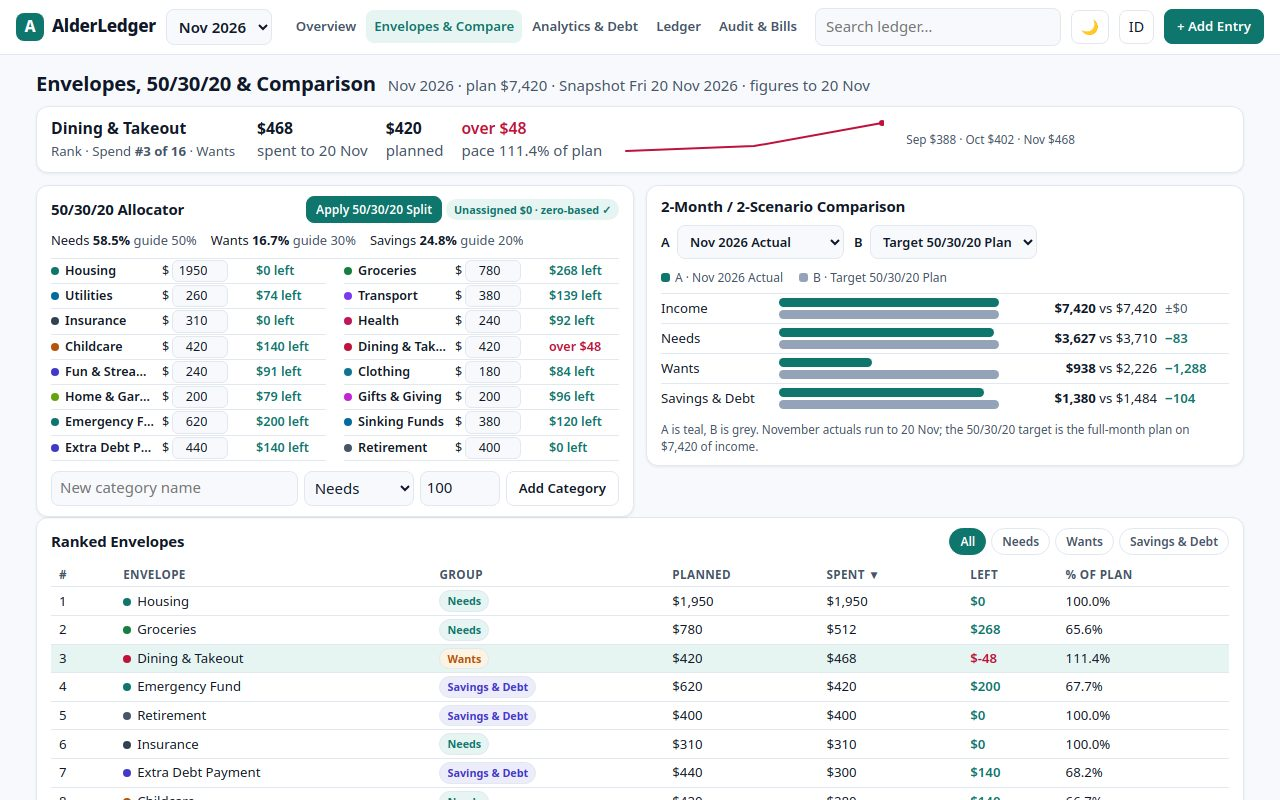
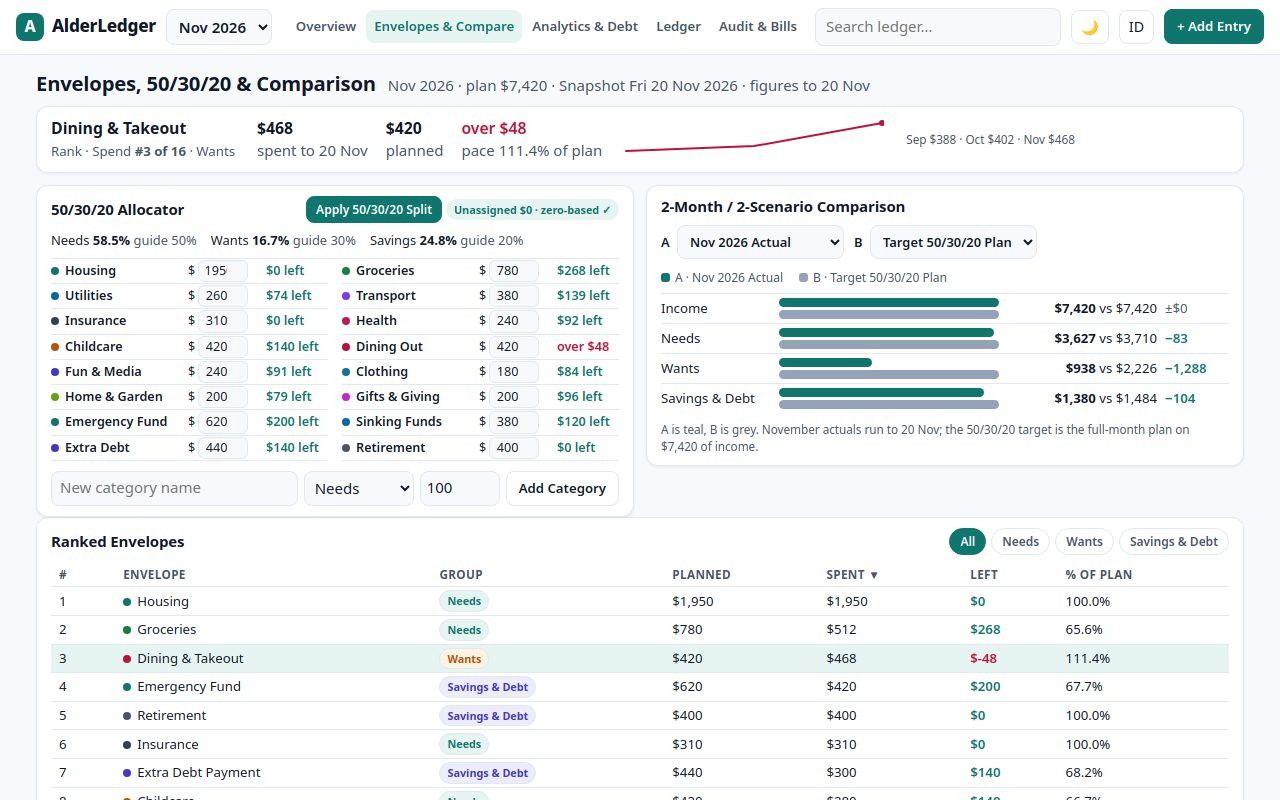
AlderLedger V3: H2H polish — no placeholder strip, full allocator labels, mobile debt tab
- Remove the 'new in V2' strip from the variance tab (no 'new in V2' /
  'coming' / 'Sample' text anywhere in the app)
- Allocator: short full labels (Dining Out, Fun & Media, Extra Debt) and
  a wider name column — 0 truncated envelope names at 1280x800
- Debt tab: Snowball / Avalanche / Minimums method toggle, 2x2 KPI strip
  (debt-free date, interest saved, freed cash/yr, runway), payoff curve
  with a callout pill, loan schedule + sinking vaults card
- Analytics sub-tabs are hash-routable (#/analytics/debt); shot 4 is now
  the mobile debt tab at 390x844
- Audit still 12/12, 0 console/page/network errors, mobile scrollWidth 390

Changed region(s): [[0.0625, 0.3125, 0.25, 0.5625], [0.375, 0.3125, 0.4688, 0.5625], [0.2812, 0.3125, 0.3438, 0.5625]]

diff --git a/app/views/analytics.js b/app/views/analytics.js
@@ -34,42 +34,80 @@ export function renderAnalytics(state, s) {
       <p class="fineprint">Hover a slice for planned vs actual. Housing is the largest envelope at ${fmt(s.spent.housing)}; Dining is the only one over plan, by ${fmt(Math.max(0, s.spent.dining - s.planned.dining))}.</p></div>
       <div class="card"><div class="card-head"><h2>12-month cash-flow trend</h2></div>${trendChart()}
       <p class="fineprint">November is partial (to 20 Nov). April’s income spike is the $1,900 tax refund; August’s spending spike is back-to-school; October carries the $310 annual insurance premium.</p></div>
-    </section>
-    <p class="fineprint feature-line">3 Sinking Vaults · Split Receipts · Snowball / Avalanche payoff curve — new in V2</p>`;
+    </section>`;
   } else if (tab === 'debt') {
+    const method = state.debtMethod || 'snowball';
     const slider = state.debtExtra ?? 30000;
     const trimsOn = TRIMS.filter((x) => state.debtTrims && state.debtTrims[x.id]);
     const trimSum = trimsOn.reduce((a, x) => a + x.amount, 0);
     const shock = state.debtShock ?? 0;
     const incomeLoss = Math.round(742000 * shock);
-    // An income shock eats the extra payment first: the household keeps
-    // the lights on before it pays extra on the cards.
-    const extra = Math.max(0, slider + trimSum - incomeLoss);
+    // Minimums means exactly that: the slider and trims are off and the
+    // extra is $0, so the KPIs, curve and schedule all fall back to the
+    // 105-month minimums path.
+    const minMethod = method === 'minimums';
+    const extra = minMethod ? 0 : Math.max(0, slider + trimSum - incomeLoss);
     const sim = simulateDebt(extra);
     const minSim = simulateDebt(0);
+    const cur = method === 'avalanche' ? sim.avalanche : sim.snowball;
     const save = sim.snowball.interest - sim.avalanche.interest;
+    const methodLabel = method === 'avalanche' ? 'Avalanche' : minMethod ? 'Minimums only' : 'Snowball';
+    const freeDate = new Date(2026, 10 + cur.months, 1).toLocaleDateString('en-US', { month: 'short', year: 'numeric' });
+    const savedVsMin = minSim.snowball.interest - cur.interest;
+    const freedYr = (32000 + extra) * 12;
+    const runway = (GOALS.find((g) => g.id === 'emergency').balance / s.needs.planned).toFixed(1);
+    const callout = minMethod
+      ? `Minimums only · debt-free in ${cur.months} mo · ${fmt(cur.interest)} interest`
+      : `${methodLabel} · debt-free in ${cur.months} mo · saves ${fmt(savedVsMin)} vs minimums`;
     const needs = 434000;
     const shockIncome = 742000 - incomeLoss;
     const shortfall = Math.max(0, needs - shockIncome);
     const shockNote = shock === 0 ? '' : incomeLoss >= slider + trimSum
       ? `Income −${(shock * 100).toFixed(0)}% is ${fmt(incomeLoss)}/mo less — it absorbs the whole ${fmt(slider + trimSum)} extra, so the payoff falls back to minimums (${minSim.snowball.months} months).${shortfall > 0 ? ` It also cuts ${fmt(shortfall)}/mo into essentials; the emergency fund covers that gap for about ${(1822800 / shortfall).toFixed(0)} months.` : ' Essentials are still covered; wants and savings flex first.'}`
       : `Income −${(shock * 100).toFixed(0)}% is ${fmt(incomeLoss)}/mo less, leaving ${fmt(extra)}/mo of extra payment.`;
-    body = `<section class="grid-2">
+    const order = method === 'avalanche' ? sim.avalancheOrder : sim.snowballOrder;
+    const payoff = method === 'avalanche' ? sim.avalanche.payoff : sim.snowball.payoff;
+    const schedRows = order.map((name) => {
+      const d = DEBTS.find((x) => x.name === name);
+      const m = payoff[d.id];
+      const when = new Date(2026, 10 + m, 1).toLocaleDateString('en-US', { month: 'short', year: 'numeric' });
+      return `<div class="debt-row"><span><b>${esc(name)}</b><br><span class="muted">${(d.apr * 100).toFixed(2)}% APR · min ${fmt(d.min)}/mo · ${fmt(d.balance)}</span></span><span class="num"><b>paid off mo ${m}</b><br><span class="muted">${when}</span></span></div>`;
+    }).join('');
+    const vaultRows = VAULTS.map((v) => {
+      const monthsLeft = Math.max(1, (Number(v.due.slice(0, 4)) - 2026) * 12 + Number(v.due.slice(5, 7)) - 11);
+      const need = Math.ceil((v.target - v.current) / monthsLeft);
+      const behind = need - v.monthly;
+      const dueLabel = new Date(v.due + 'T00:00:00').toLocaleDateString('en-US', { month: 'short', year: 'numeric' });
+      return `<div class="debt-row"><span><b>${esc(v.name)}</b><br><span class="muted">due ${esc(dueLabel)} · ${fmt(v.current)} of ${fmt(v.target)} · needs ${fmt(need)}/mo</span></span><span class="num"><b class="${behind > 0 ? 'bad' : 'good'}">${behind > 0 ? `Behind ${fmt(behind)}/mo` : 'On track ✓'}</b><br><span class="muted">funding ${fmt(v.monthly)}/mo</span></span></div>`;
+    }).join('');
+    body = `<div class="debt-kpis">
+      <div class="debt-kpi"><span class="muted">Debt-free date</span><b class="kpi-num">${esc(freeDate)}</b><span class="muted">${esc(methodLabel)} · ${cur.months} mo</span></div>
+      <div class="debt-kpi"><span class="muted">Interest saved</span><b class="kpi-num good">${fmt(savedVsMin)}</b><span class="muted">vs minimums ${fmt(minSim.snowball.interest)}</span></div>
+      <div class="debt-kpi"><span class="muted">Freed cash / yr</span><b class="kpi-num">${fmt(freedYr)}</b><span class="muted">after debt-free</span></div>
+      <div class="debt-kpi"><span class="muted">Emergency runway</span><b class="kpi-num">${runway} mos</b><span class="muted">${fmt(GOALS.find((g) => g.id === 'emergency').balance)} fund</span></div>
+    </div>
+    <section class="grid-2">
       <div class="card"><div class="card-head"><h2>Extra monthly debt payment: <b>${fmt(extra)}</b></h2></div>
-        <label class="slider-row"> $0 <input type="range" min="0" max="80000" step="2500" value="${slider}" data-action="debt-extra" aria-label="Extra monthly debt payment in cents"> $800 <span class="muted">(${(slider / 100).toFixed(0)}/mo on top of ${fmt(32000)} minimums)</span></label>
-        <div class="trim-row">${TRIMS.map((x) => `<label class="trim"><input type="checkbox" data-action="debt-trim" data-trim="${x.id}"${state.debtTrims && state.debtTrims[x.id] ? ' checked' : ''}> ${esc(x.label)}</label>`).join('')}</div>
+        <div class="method-row"><span class="muted">Method:</span>${[['snowball', 'Snowball'], ['avalanche', 'Avalanche'], ['minimums', 'Minimums']].map(([k, label]) => `<button class="pill-btn${method === k ? ' on' : ''}" data-action="debt-method" data-method="${k}">${label}</button>`).join('')}</div>
+        <label class="slider-row"> $0 <input type="range" min="0" max="80000" step="2500" value="${slider}" data-action="debt-extra" aria-label="Extra monthly debt payment in cents"${minMethod ? ' disabled' : ''}> $800 <span class="muted">(${(slider / 100).toFixed(0)}/mo on top of ${fmt(32000)} minimums)</span></label>
+        <div class="trim-row">${TRIMS.map((x) => `<label class="trim"><input type="checkbox" data-action="debt-trim" data-trim="${x.id}"${state.debtTrims && state.debtTrims[x.id] ? ' checked' : ''}${minMethod ? ' disabled' : ''}> ${esc(x.label)}</label>`).join('')}</div>
         <div class="shock-row"><span class="muted">Income shock:</span>${SHOCKS.map((x) => `<button class="pill-btn${shock === x.v ? ' on' : ''}" data-action="debt-shock" data-shock="${x.v}">${esc(x.label)}</button>`).join('')}</div>
-        <p class="fineprint">Trims add ${fmt(trimSum)}/mo to the extra payment${incomeLoss ? ` · shock takes ${fmt(incomeLoss)}/mo off it` : ''} · effective extra ${fmt(extra)}/mo.</p>
+        <p class="fineprint">${minMethod ? 'Minimums: the slider and trims are off — only the $320/mo minimums are paid.' : `Trims add ${fmt(trimSum)}/mo to the extra payment${incomeLoss ? ` · shock takes ${fmt(incomeLoss)}/mo off it` : ''} · effective extra ${fmt(extra)}/mo.`}</p>
+        ${debtCurve(cur, minSim.snowball, callout)}
         <div class="debt-cards">
           <div class="debt-card"><h3>Snowball <span class="muted">— smallest balance first</span></h3><p class="debt-big">${sim.snowball.months} months</p><p>Interest ${fmt(sim.snowball.interest)} · order: ${sim.snowballOrder.join(' → ')}</p></div>
           <div class="debt-card"><h3>Avalanche <span class="muted">— highest APR first</span></h3><p class="debt-big">${sim.avalanche.months} months</p><p>Interest ${fmt(sim.avalanche.interest)} · order: ${sim.avalancheOrder.join(' → ')}</p></div>
         </div>
         <p class="fineprint">${extra > 0 ? `Avalanche saves ${fmt(save)} of interest and finishes ${sim.snowball.months - sim.avalanche.months} month${sim.snowball.months - sim.avalanche.months === 1 ? '' : 's'} sooner than snowball at ${fmt(extra)}/mo extra. With no extra payment, either method takes 105 months and ${fmt(774030)} of interest — the extra payment is the whole game.` : 'Move the slider or add a trim: with no extra payment, either method takes 105 months and $7,740 of interest.'}${shockNote ? `<br>${esc(shockNote)}` : ''}</p>
-        ${debtCurve(sim.snowball, minSim.snowball)}</div>
+      </div>
       <div class="card"><div class="card-head"><h2>Your debts · ${fmt(DEBTS.reduce((a, d) => a + d.balance, 0))} total</h2></div>
         ${DEBTS.map((d) => `<div class="debt-row"><span><b>${esc(d.name)}</b><br><span class="muted">${(d.apr * 100).toFixed(2)}% APR · min ${fmt(d.min)}/mo</span></span><b>${fmt(d.balance)}</b></div>`).join('')}
         <p class="fineprint">Minimums alone are ${fmt(32000)}/mo. The $300/mo extra in the November plan is the Debt Extra envelope (${fmt(s.spent.debtextra)} moved to 20 Nov).</p></div>
-    </section>`;
+    </section>
+    <section class="card"><div class="card-head"><h2>Loan schedule &amp; sinking vaults</h2><span class="pill">${esc(methodLabel)} · debt-free ${esc(freeDate)}</span></div>
+      <div class="sched-cols"><div><h3>Payoff order — ${esc(methodLabel.toLowerCase())}</h3>${schedRows}</div>
+      <div><h3>Sinking vaults — irregular bills, pre-funded</h3>${vaultRows}</div></div>
+      <p class="fineprint">The schedule follows the ${esc(methodLabel.toLowerCase())} order at ${fmt(extra)}/mo extra. Vaults are pre-funded from the $260/mo Sinking Funds transfer — a vault behind its monthly need shows in red.</p></section>`;
   } else {
     const vaults = VAULTS.map((v) => {
       const monthsLeft = Math.max(1, (Number(v.due.slice(0, 4)) - 2026) * 12 + Number(v.due.slice(5, 7)) - 11);

diff --git a/app/style.css b/app/style.css
@@ -137,13 +137,13 @@ main { max-width: 1240px; margin: 0 auto; padding: 12px 16px 20px; }
 
 /* ---- Allocator ---- */
 .alloc-5030 { display: flex; gap: 14px; flex-wrap: wrap; font-size: 0.86rem; margin-bottom: 8px; }
-.alloc-list { border-top: 1px solid var(--border); display: grid; grid-template-columns: 1fr 1fr; gap: 0 18px; }
-.alloc-row { display: grid; grid-template-columns: 1fr 88px 70px; gap: 6px; align-items: center; padding: 1px 0; border-bottom: 1px solid var(--border); font-size: 0.84rem; }
+.alloc-list { border-top: 1px solid var(--border); display: grid; grid-template-columns: 1fr 1fr; gap: 0 14px; }
+.alloc-row { display: grid; grid-template-columns: 1fr 72px 62px; gap: 6px; align-items: center; padding: 1px 0; border-bottom: 1px solid var(--border); font-size: 0.84rem; }
 .alloc-row label { white-space: nowrap; }
 .alloc-row .pill, .alloc-row .alloc-spent { display: none; }
 .alloc-name { font-weight: 600; white-space: nowrap; overflow: hidden; text-overflow: ellipsis; }
 .alloc-name::before { content: ""; display: inline-block; width: 8px; height: 8px; border-radius: 50%; background: var(--dot, var(--teal)); margin-right: 6px; }
-.alloc-row input[type="number"] { width: 56px; border: 1px solid var(--border); background: var(--bg); border-radius: 6px; padding: 1px 5px; text-align: right; }
+.alloc-row input[type="number"] { width: 50px; border: 1px solid var(--border); background: var(--bg); border-radius: 6px; padding: 1px 5px; text-align: right; }
 .alloc-spent { color: var(--muted); font-size: 0.82rem; text-align: right; white-space: nowrap; }
 .add-cat { display: grid; grid-template-columns: 1fr 110px 80px auto; gap: 6px; margin-top: 10px; }
 .add-cat input[type="text"], .add-cat input[name="name"] { min-width: 0; border: 1px solid var(--border); background: var(--bg); border-radius: 8px; padding: 5px 8px; }
@@ -247,7 +247,6 @@ button.cal-bill { border: 0; cursor: pointer; font: inherit; text-align: left; w
 .trim input { accent-color: var(--teal); }
 .shock-row { display: flex; gap: 6px; align-items: center; flex-wrap: wrap; margin: 0 0 10px; font-size: 0.86rem; }
 .vaults { grid-template-columns: repeat(3, 1fr); }
-.feature-line { text-align: center; }
 .modal-card.split-on .single-env { display: none; }
 .modal-card label.split-toggle { display: flex; gap: 8px; align-items: center; }
 .split-toggle input { width: auto; margin: 0; accent-color: var(--teal); }
@@ -258,6 +257,17 @@ button.cal-bill { border: 0; cursor: pointer; font: inherit; text-align: left; w
 .split-balance { font-size: 0.86rem; font-weight: 700; margin: 8px 0 0; }
 .split-balance.good { color: var(--teal); }
 .split-balance.bad { color: var(--crimson); }
+
+/* ---- V3: debt KPIs, method toggle, curve callout, schedule ---- */
+.debt-kpis { display: grid; grid-template-columns: repeat(4, 1fr); gap: 10px; margin-bottom: 12px; }
+.debt-kpi { background: var(--card); border: 1px solid var(--border); border-radius: 10px; box-shadow: var(--shadow); padding: 9px 12px; display: flex; flex-direction: column; gap: 1px; }
+.debt-kpi .muted { font-size: 0.78rem; }
+.kpi-num { font-size: 1.3rem; font-weight: 800; letter-spacing: -0.02em; line-height: 1.2; }
+.method-row { display: flex; gap: 6px; align-items: center; flex-wrap: wrap; margin: 2px 0 10px; font-size: 0.86rem; }
+.curve-callout { text-align: center; margin: 6px 0 0; }
+.pill-teal { background: var(--teal-soft); color: var(--teal); border-color: transparent; }
+.sched-cols { display: grid; grid-template-columns: 1fr 1fr; gap: 0 24px; }
+.sched-cols h3 { margin: 4px 0 2px; }
 
 /* ---- Responsive ---- */
 @media (max-width: 1280px) {
@@ -291,6 +301,10 @@ button.cal-bill { border: 0; cursor: pointer; font: inherit; text-align: left; w
   .cmp-row { grid-template-columns: 84px 1fr 110px 52px; }
   .methods { grid-template-columns: 1fr; }
   .debt-cards { grid-template-columns: 1fr; }
+  .debt-kpis { grid-template-columns: 1fr 1fr; gap: 8px; }
+  .sched-cols { grid-template-columns: 1fr; }
+  .route-analytics .page-head .muted { display: none; }
+  .route-analytics .page-head h1 { font-size: 1.2rem; }
   .latest-strip { grid-template-columns: 1fr 1fr; }
   .cal td { height: 44px; }
   .action-strip { flex-direction: column; align-items: flex-start; gap: 8px; }

diff --git a/app/main.js b/app/main.js
@@ -30,7 +30,7 @@ const state = {
   month: '2026-11', lang: localStorage.getItem('alderledger-lang') || 'en',
   theme: localStorage.getItem('alderledger-theme') || 'light',
   groupFilter: 'All', selectedEnv: 'dining', chartMode: 'cushion',
-  compareA: '2026-11', compareB: 'target', analyticsTab: 'variance',
+  compareA: '2026-11', compareB: 'target', analyticsTab: 'variance', debtMethod: 'snowball',
   debtExtra: 30000, debtTrims: { dining: false, subs: false, fun: false }, debtShock: 0,
   ledgerSearch: '', ledgerGroup: 'All', ledgerEnv: '',
   ledgerFrom: '', ledgerTo: '', ledgerSort: 'date-desc', sortEnv: 'spent-desc',
@@ -72,12 +72,18 @@ function render() {
   const s = buildSummary(state.month, state.user);
   const audit = verifyBudgetConsistency(state.month, state.user);
   const r = route();
+  // Analytics sub-tabs are addressable: #/analytics/debt opens the
+  // debt tab directly (and the mobile screenshot uses it). A bare
+  // #/analytics resets to the variance tab, so the nav link and the
+  // capture sweep always land on the default tab.
+  const parts = location.hash.replace(/^#/, '').split('/');
+  if (parts[1] === 'analytics') state.analyticsTab = ['variance', 'debt', 'goals'].includes(parts[2]) ? parts[2] : 'variance';
   const body = r === 'home' ? renderHome(state, s, audit)
     : r === 'envelopes' ? renderEnvelopes(state, s)
     : r === 'analytics' ? renderAnalytics(state, s)
     : r === 'ledger' ? renderLedger(state, s)
     : renderAudit(state, s, audit);
-  app.innerHTML = renderHeader() + `<main>${body}</main><footer class="foot"><span>AlderLedger · 100% offline · zero build · all figures computed from one reconciled ledger</span><span>Snapshot Fri 20 Nov 2026 · Audit ${audit.passed}/${audit.total} PASS · <a href="#/audit">Methodology [1]–[6]</a></span></footer>`;
+  app.innerHTML = renderHeader() + `<main class="route-${r}">${body}</main><footer class="foot"><span>AlderLedger · 100% offline · zero build · all figures computed from one reconciled ledger</span><span>Snapshot Fri 20 Nov 2026 · Audit ${audit.passed}/${audit.total} PASS · <a href="#/audit">Methodology [1]–[6]</a></span></footer>`;
 }
 
 // ---- Exports ----------------------------------------------------------
@@ -247,7 +253,8 @@ document.addEventListener('click', (ev) => {
     }
   } else if (action === 'export') doExport(el.dataset.kind, s);
   else if (action === 'apply-503020') apply503020();
-  else if (action === 'atab') { state.analyticsTab = el.dataset.tab; render(); }
+  else if (action === 'debt-method') { state.debtMethod = el.dataset.method; render(); }
+  else if (action === 'atab') { location.hash = '#/analytics/' + el.dataset.tab; }
   else if (action === 'sort-env') { state.sortEnv = el.dataset.key; render(); }
   else if (action === 'ledger-sort') { state.ledgerSort = el.dataset.key; render(); }
   else if (action === 'delete-txn') {

diff --git a/app/charts.js b/app/charts.js
@@ -129,8 +129,10 @@ export function varianceDonut(s) {
 // Debt payoff curve: total balance over time under the current plan
 // (snowball with the effective extra payment) vs paying minimums only.
 // Both series come from simulateDebt, so the curve can never disagree
-// with the months / interest figures beside it.
-export function debtCurve(current, minimums) {
+// with the months / interest figures beside it. The callout pill is
+// HTML under the SVG (not drawn inside it) so its text stays full-size
+// on a phone and can never overlap a line.
+export function debtCurve(current, minimums, callout) {
   const W = 560, H = 132, PL = 46, PR = 14, PT = 16, PB = 22;
   const maxV = 1145000;
   const maxM = Math.max(current.months, minimums.months, 1);
@@ -143,12 +145,15 @@ export function debtCurve(current, minimums) {
   const same = current.months === minimums.months;
   const endCur = `<circle cx="${X(current.months).toFixed(1)}" cy="${Y(0).toFixed(1)}" r="4" fill="#0F766E"/><text x="${Math.min(X(current.months) + 8, W - 70).toFixed(1)}" y="${(Y(0) - 8).toFixed(1)}" font-size="11" font-weight="700" fill="#0F766E">Debt-free · ${current.months} mo</text>`;
   const endMin = same ? '' : `<circle cx="${X(minimums.months).toFixed(1)}" cy="${Y(0).toFixed(1)}" r="4" fill="#BE123C"/><text x="${(X(minimums.months) - 8).toFixed(1)}" y="${(Y(0) - 8).toFixed(1)}" text-anchor="end" font-size="11" font-weight="700" fill="#BE123C">Minimums · ${minimums.months} mo</text>`;
+  const legend = same
+    ? `<div class="strip-legend"><span class="strip-leg"><i style="background:#BE123C"></i>Minimums only — the current plan is minimums</span></div>`
+    : `<div class="strip-legend"><span class="strip-leg"><i style="background:#0F766E"></i>Current plan</span><span class="strip-leg"><i style="background:#BE123C"></i>Minimums only</span></div>`;
   return `<svg viewBox="0 0 ${W} ${H}" width="100%" role="img" aria-label="Debt payoff curve">
     <text x="${PL}" y="${PT - 4}" font-size="10" fill="var(--muted)">Total debt $11,450 → $0</text>
     <line x1="${PL}" y1="${Y(0)}" x2="${W - PR}" y2="${Y(0)}" stroke="var(--border)" stroke-width="1"/>
     ${same ? line(minimums.series, '#BE123C', true) : line(minimums.series, '#BE123C', true) + line(current.series, '#0F766E', false)}
     ${endCur}${endMin}
-  </svg><div class="strip-legend"><span class="strip-leg"><i style="background:#0F766E"></i>Current plan</span><span class="strip-leg"><i style="background:#BE123C"></i>Minimums only</span></div>`;
+  </svg>${callout ? `<p class="curve-callout"><span class="pill pill-teal">${esc(callout)}</span></p>` : ''}${legend}`;
 }
 
 // Twelve-month household cash-flow trend: income bars, spending bars,

diff --git a/app/data.js b/app/data.js
@@ -340,12 +340,14 @@ export function verifyBudgetConsistency(monthKey, user) {
 // Debt payoff simulation: same debts, same extra payment, two orders.
 // Returns months to debt-free and total interest paid for each method,
 // plus the month-by-month total balance series behind the payoff curve
-// (series[0] is the starting balance, series[months] is $0).
+// (series[0] is the starting balance, series[months] is $0) and the
+// month each debt is paid off (for the loan schedule).
 export function simulateDebt(extraCents) {
   const run = (order) => {
     const debts = order.map((d) => ({ ...d }));
     const total0 = debts.reduce((a, d) => a + d.balance, 0);
     const series = [total0];
+    const payoff = {};
     let months = 0, interest = 0;
     let guard = 0;
     while (debts.some((d) => d.balance > 0) && guard < 600) {
@@ -356,9 +358,10 @@ export function simulateDebt(extraCents) {
       // open debt in this method's order.
       for (const d of debts) { if (d.balance <= 0) continue; const pay = Math.min(d.min, d.balance); d.balance -= pay; pool -= pay; }
       for (const d of debts) { if (pool <= 0) break; if (d.balance <= 0) continue; const pay = Math.min(pool, d.balance); d.balance -= pay; pool -= pay; }
+      for (const d of debts) if (d.balance <= 0 && payoff[d.id] === undefined) payoff[d.id] = months;
       series.push(debts.reduce((a, d) => a + d.balance, 0));
     }
-    return { months, interest, series };
+    return { months, interest, series, payoff };
   };
   const snowball = [...DEBTS].sort((a, b) => a.balance - b.balance);
   const avalanche = [...DEBTS].sort((a, b) => b.apr - a.apr);

diff --git a/app/views/envelopes.js b/app/views/envelopes.js
@@ -21,9 +21,14 @@ function compareValues(key, sNov, user) {
 export function renderEnvelopes(state, s) {
   const lang = state.lang;
   const unassigned = s.expected - s.plannedSpend - s.plannedSave;
+  // Allocator labels stay short and complete: the two-column grid has
+  // no room for the longest names, and an ellipsis here reads as a
+  // broken label. Full names stay everywhere else (detail, table).
+  const SHORT = { dining: 'Dining Out', fun: 'Fun & Media', debtextra: 'Extra Debt' };
+  const shortName = (e) => SHORT[e.id] || e.name;
   const allocRows = s.envelopes.map((e) => {
     const remaining = s.planned[e.id] - s.spent[e.id];
-    return `<div class="alloc-row"><span class="alloc-name" style="--dot:${e.color}">${esc(e.name)}</span>
+    return `<div class="alloc-row"><span class="alloc-name" style="--dot:${e.color}">${esc(shortName(e))}</span>
       <span class="pill ${GROUP_PILL[e.group]}">${esc(e.group)}</span>
       <label>$ <input type="number" min="0" step="5" value="${(s.planned[e.id] / 100).toFixed(0)}" data-planned-env="${e.id}" aria-label="Planned limit for ${esc(e.name)}"></label>
       <span class="alloc-spent">spent ${fmt(s.spent[e.id])}</span>
